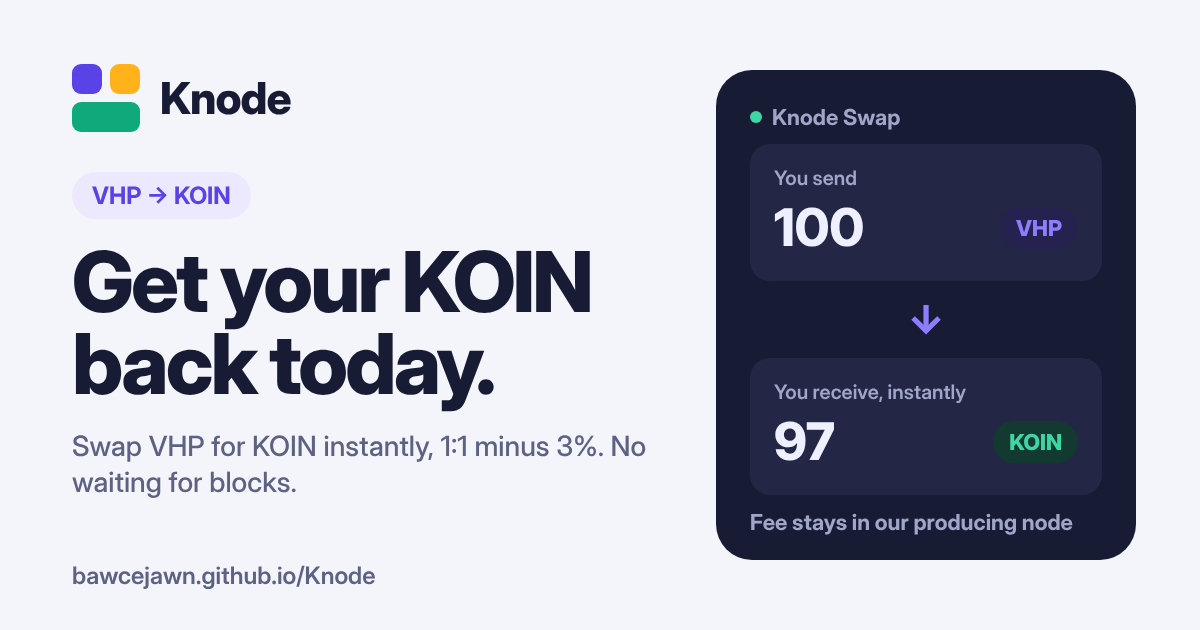
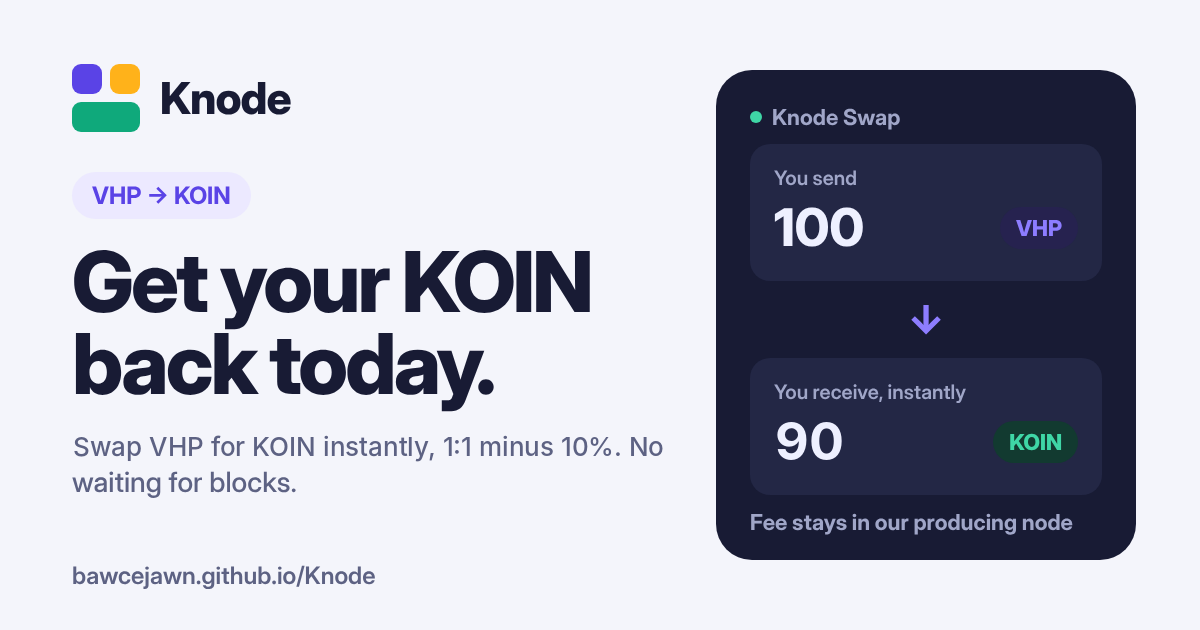
Swap fee text: 10% everywhere the site names the Swap Desk fee
The Swap Desk fee is now 10% on chain (was 3%). Updates swap.html (meta, page box, lede, rate), the Home Swap card, get.html, terms.html, ecosystem.html, the swap page box and SEO text, the swap.js fallback and ?demo config, and the og-swap.png share image (3% / 97 -> 10% / 90). Adds a test that pins every text to the same number. The live swap page still reads fee_bps from the chain.

Claude-Session: https://claude.ai/code/session_0173PPUpJiv2cLgSheQAajct

Changed region(s): [[0.1542, 0.6937, 0.555, 0.7238], [0.6475, 0.6635, 0.7092, 0.754], [0.0617, 0.6937, 0.1233, 0.7238]]

diff --git a/web/swap.html b/web/swap.html
@@ -9,12 +9,12 @@
   <meta name="viewport" content="width=device-width, initial-scale=1">
   <title>Knode Games Swap · Swap VHP for KOIN on Koinos</title>
   <!-- seo:start (written by tools/site-seo.mjs; edit there) -->
-  <meta name="description" content="Swap VHP back into KOIN in one step on Koinos. A small 3% fee, paid out from Knode Games' own node.">
+  <meta name="description" content="Swap VHP back into KOIN in one step on Koinos. A 10% fee, paid out from Knode Games' own node.">
   <link rel="canonical" href="https://knodegames.com/swap.html">
   <meta property="og:type" content="website">
   <meta property="og:site_name" content="Knode Games">
   <meta property="og:title" content="Knode Games Swap">
-  <meta property="og:description" content="Swap VHP back into KOIN in one step on Koinos. A small 3% fee, paid out from Knode Games' own node.">
+  <meta property="og:description" content="Swap VHP back into KOIN in one step on Koinos. A 10% fee, paid out from Knode Games' own node.">
   <meta property="og:url" content="https://knodegames.com/swap.html">
   <meta property="og:image" content="https://knodegames.com/media/og-swap.png">
   <meta property="og:image:width" content="1200">
@@ -22,7 +22,7 @@
   <meta property="og:image:alt" content="Knode Games Swap">
   <meta name="twitter:card" content="summary_large_image">
   <meta name="twitter:title" content="Knode Games Swap">
-  <meta name="twitter:description" content="Swap VHP back into KOIN in one step on Koinos. A small 3% fee, paid out from Knode Games' own node.">
+  <meta name="twitter:description" content="Swap VHP back into KOIN in one step on Koinos. A 10% fee, paid out from Knode Games' own node.">
   <meta name="twitter:image" content="https://knodegames.com/media/og-swap.png">
   <!-- seo:end -->
   <link rel="icon" href="media/icon.svg?v=2" type="image/svg+xml">
@@ -96,12 +96,12 @@
   </div>
 
   <main id="main" class="wrap">
-    <aside class="page-box" data-game="tool"><p>Swap VHP for KOIN here. A small fee applies, so check the amount before you confirm.</p></aside>
+    <aside class="page-box" data-game="tool"><p>Swap VHP for KOIN here. A 10% fee applies, so check the amount before you confirm.</p></aside>
     <div class="swap-hero">
       <div class="swap-copy">
         <p class="week-pill">VHP → KOIN</p>
         <h1>Get your KOIN back today.</h1>
-        <p class="lede">VHP only turns back into KOIN as it produces blocks, slowly. Swap it here instead and get KOIN in the same transaction, at 1:1 minus a <b id="fee-inline">3%</b> fee.</p>
+        <p class="lede">VHP only turns back into KOIN as it produces blocks, slowly. Swap it here instead and get KOIN in the same transaction, at 1:1 minus a <b id="fee-inline">10%</b> fee.</p>
         <div class="hero-stats">
           <div><b id="stat-avail">…</b><span>KOIN available now</span></div>
           <div><b id="stat-swapped">…</b><span>VHP swapped so far</span></div>
@@ -127,7 +127,7 @@
           </div>
         </div>
         <dl class="facts quote-facts">
-          <dt>Rate</dt><dd id="q-rate">1 VHP = 0.97 KOIN</dd>
+          <dt>Rate</dt><dd id="q-rate">1 VHP = 0.9 KOIN</dd>
           <dt>Fee</dt><dd id="q-fee">—</dd>
           <dt>Largest swap right now</dt><dd id="q-max">—</dd>
         </dl>

diff --git a/web/index.html b/web/index.html
@@ -422,14 +422,14 @@
         <p class="rules-cta"><a class="btn btn-primary btn-big" href="fantasy.html">Go to Fantasy Producers</a></p>
       </div>
       <div class="rules-panel" id="rp-swap" data-rules-panel="swap" role="tabpanel" aria-labelledby="rt-swap" hidden>
-        <div class="rules-short"><h2>In short</h2><p>Turn VHP back into KOIN right now. On its own, VHP only turns back into KOIN slowly as it produces blocks. Knode Games Swap pays you KOIN at once, 1:1 minus a 3% fee.</p></div>
+        <div class="rules-short"><h2>In short</h2><p>Turn VHP back into KOIN right now. On its own, VHP only turns back into KOIN slowly as it produces blocks. Knode Games Swap pays you KOIN at once, 1:1 minus a 10% fee.</p></div>
         <ol class="rules-steps">
           <li><span class="ri" aria-hidden="true">👛</span><div><b>Open Swap and connect</b><p>Kondor or KOIN Vault. You need nothing else: no account, no sign-up.</p></div></li>
           <li><span class="ri" aria-hidden="true">🔢</span><div><b>Enter how much VHP</b><p>From 1 VHP up to the largest swap the page shows.</p></div></li>
           <li><span class="ri" aria-hidden="true">✅</span><div><b>Approve once</b><p>You send VHP and get KOIN in the same transaction.</p></div></li>
         </ol>
         <div class="rules-good"><h3>Good to know</h3><ul>
-          <li><b>3% fee:</b> 1 VHP gets you 0.97 KOIN.</li>
+          <li><b>10% fee:</b> 1 VHP gets you 0.90 KOIN.</li>
           <li><b>Safe by design.</b> Both sides move together or nothing moves. The desk never holds anyone else's funds.</li>
           <li><b>Knode Games pays the Mana</b> for wallets that hold VHP, within daily limits.</li>
           <li><b>The largest swap</b> depends on the KOIN the desk holds right now, and it grows with every block the desk produces.</li>

diff --git a/web/swap.js b/web/swap.js
@@ -104,7 +104,7 @@
 
   /** The fee exactly as the contract computes it: rounded up to the smallest unit. */
   const feeOf = (units, bps) => (units * BigInt(bps) + 9999n) / 10000n;
-  const feeBps = () => Number(S.st?.config?.fee_bps ?? 300);
+  const feeBps = () => Number(S.st?.config?.fee_bps ?? 1000);
 
   // ═══════════════ reading the desk ═══════════════
   async function read(method, args = {}) {
@@ -256,7 +256,7 @@
     $("#demo-note").hidden = false;
     const now = Date.now();
     S.st = {
-      config: { fee_bps: 300, min_swap: String(UNIT), max_swap: "0", paused: false },
+      config: { fee_bps: 1000, min_swap: String(UNIT), max_swap: "0", paused: false },
       totals: { swaps: "14", vhp_in: String(3820n * UNIT), koin_out: String(3705n * UNIT) },
       available: String(2412n * UNIT), max_vhp_in: String(2486n * UNIT),
     };

diff --git a/web/ecosystem.html b/web/ecosystem.html
@@ -118,7 +118,7 @@
       <h2 id="eco-here-title" class="sec-title">Tools on Knode Games</h2>
       <div class="eco-grid">
         <a class="eco-item" href="get.html"><b>Get VHP</b><span>KOIN and VHP, step by step.</span></a>
-        <a class="eco-item" href="swap.html"><b>Swap VHP → KOIN</b><span>One step, a small fee.</span></a>
+        <a class="eco-item" href="swap.html"><b>Swap VHP → KOIN</b><span>One step, 10% fee.</span></a>
         <a class="eco-item" href="burn.html"><b>Burn KOIN</b><span>Burn KOIN to get Mana.</span></a>
         <a class="eco-item" href="names.html"><b>Get an @name</b><span>A short name for your wallet.</span></a>
         <a class="eco-item" href="mana.html"><b>Mana levels</b><span>Check any wallet's Mana.</span></a>

diff --git a/web/get.html b/web/get.html
@@ -197,7 +197,7 @@
       <li class="gk-step">
         <span class="gk-num" aria-hidden="true">6</span>
         <h2>Want KOIN back? Swap your VHP</h2>
-        <p>VHP doesn't turn back into KOIN by itself. When you want KOIN again, swap your VHP on Knode Games Swap: one step in your wallet, small 3% fee. KoinDX, a Koinos exchange, also trades VHP for KOIN.</p>
+        <p>VHP doesn't turn back into KOIN by itself. When you want KOIN again, swap your VHP on Knode Games Swap: one step in your wallet, 10% fee. KoinDX, a Koinos exchange, also trades VHP for KOIN.</p>
         <div class="links"><a href="swap.html">Swap on Knode Games Swap</a><a href="https://koindx.com" target="_blank" rel="noopener">KoinDX</a></div>
       </li>
     </ol>

diff --git a/web/terms.html b/web/terms.html
@@ -104,7 +104,7 @@
       <h2 class="sec-title">1. What Knode Games is</h2>
       <ul>
         <li><b>The game</b> is free to play. Staking VHP is optional and only needed to share in the weekly rewards.</li>
-        <li><b>Knode Games Swap</b> exchanges VHP for KOIN at 1:1 minus a fee (3% today), paid from KOIN the desk holds.</li>
+        <li><b>Knode Games Swap</b> exchanges VHP for KOIN at 1:1 minus a fee (10% today), paid from KOIN the desk holds.</li>
         <li>Both are smart contracts on Koinos. This website is only a window onto them: every action is signed in your own wallet and runs on the chain.</li>
       </ul>
 
